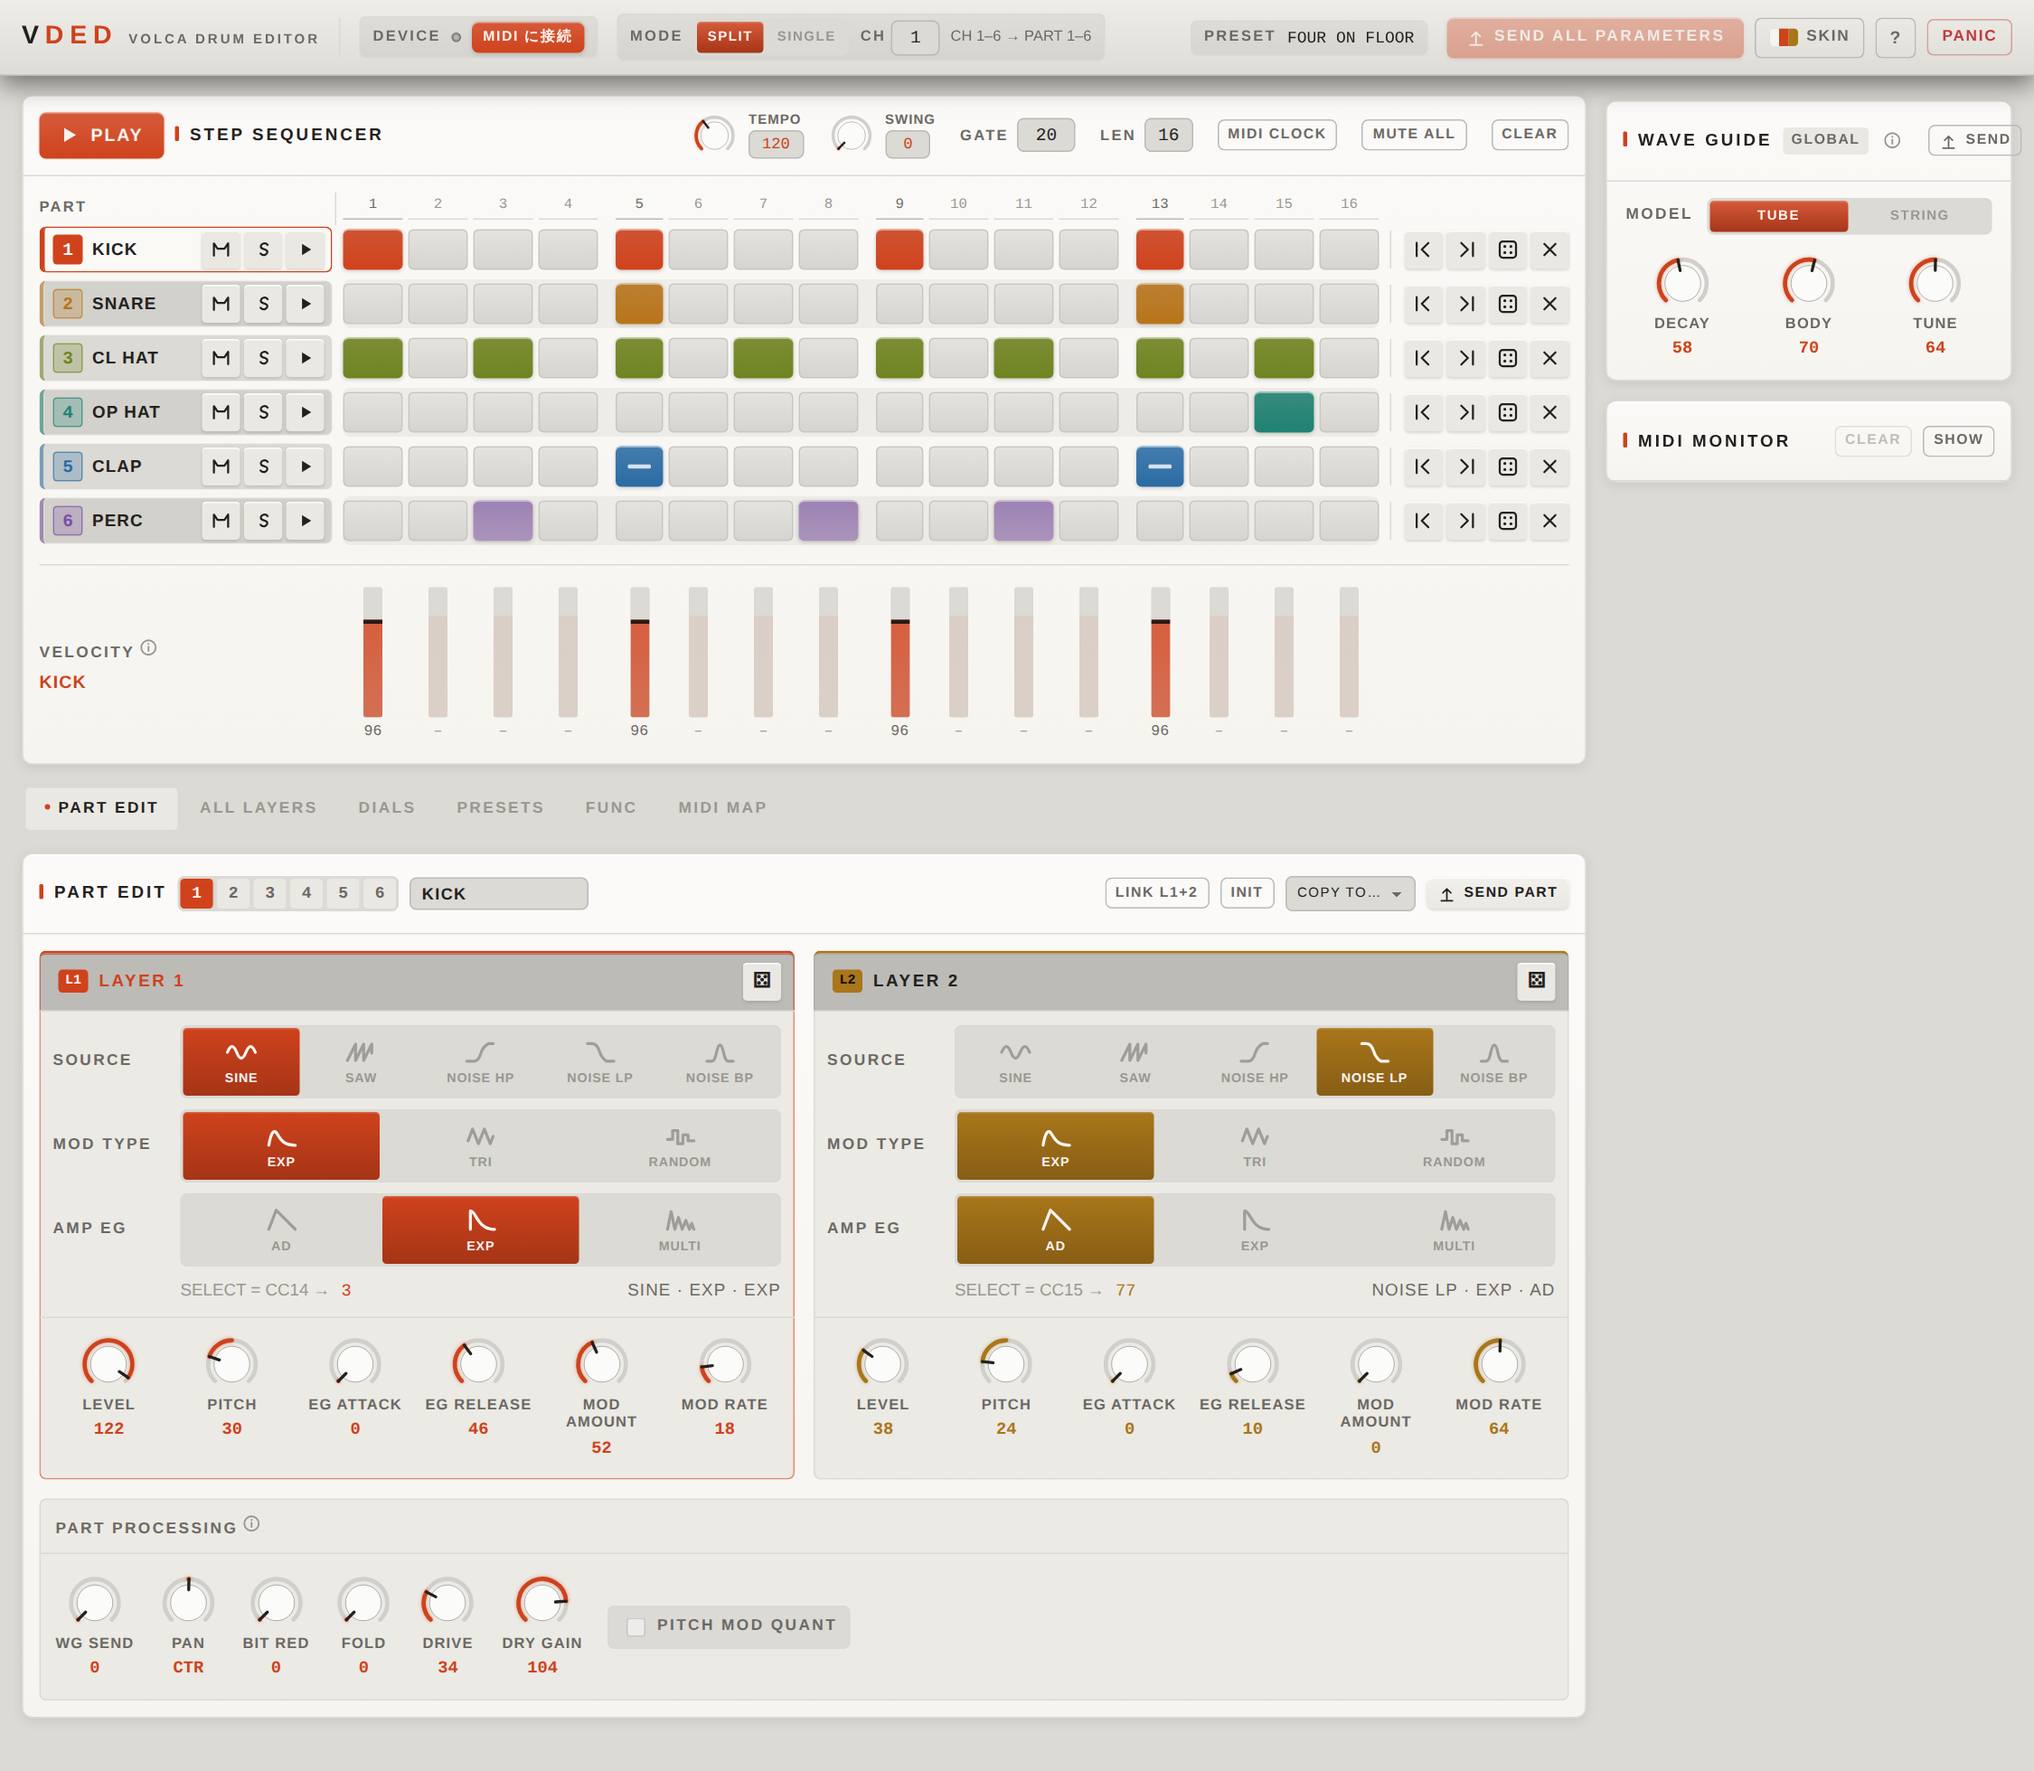
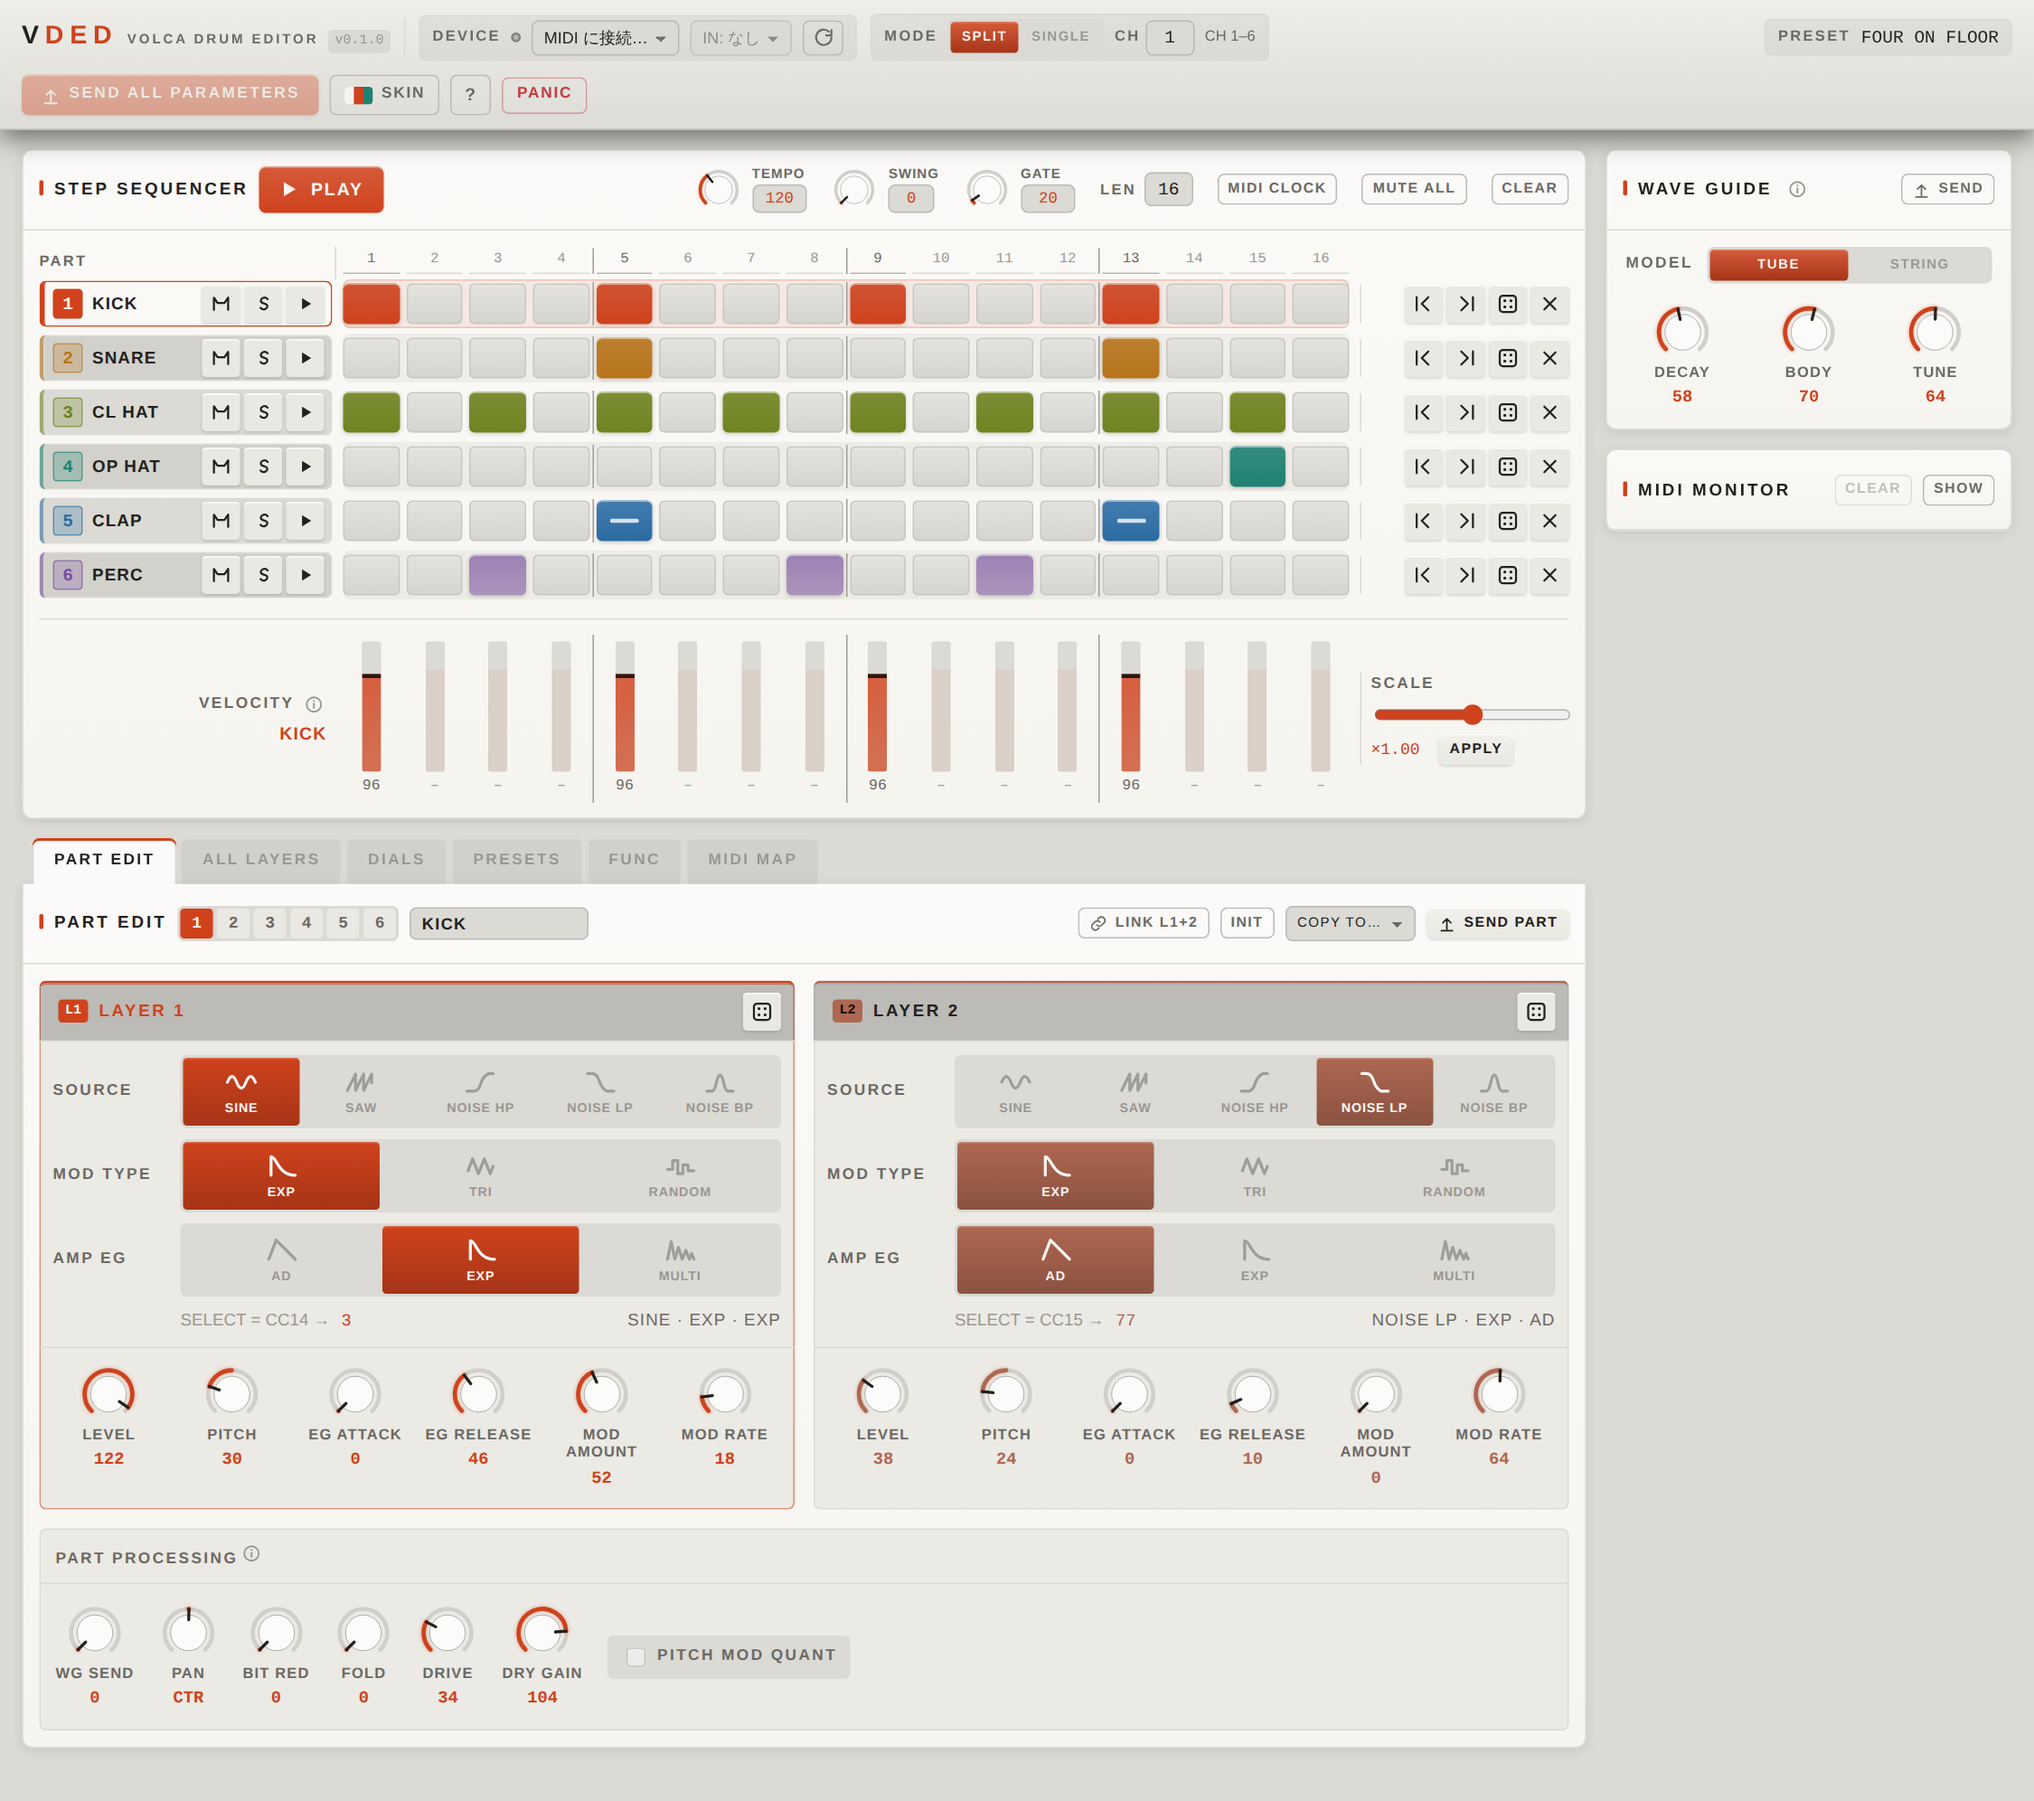
docs: README for the language switch, part-derived layer colours and the velocity scaler
Also fits the top bar on one row: the channel readout drops the redundant
part range into its tooltip.

diff --git a/src/i18n/index.ts b/src/i18n/index.ts
@@ -46,8 +46,8 @@ const EN: Dict = {
   'mode.splitTitle': 'Parts 1–6 on channels 1–6 (recommended, factory default)',
   'mode.singleTitle': 'All parts on one channel. No per-layer control, no BIT/FOLD/DRIVE/DRY GAIN',
   'mode.channelAria': 'Base MIDI channel',
-  'mode.splitHint': 'CH {from}–{to} → PART 1–6',
-  'mode.singleHint': 'CH {ch} → all parts',
+  'mode.splitHint': 'CH {from}–{to}',
+  'mode.singleHint': 'CH {ch}',
 
   'top.preset': 'Preset',
   'top.presetTitle': 'Preset currently being edited',
@@ -336,8 +336,8 @@ const JA: Dict = {
   'mode.splitTitle': 'PART 1–6 を CH 1–6 で個別制御（推奨・工場出荷時）',
   'mode.singleTitle': '全 PART を 1 チャンネルで制御。LAYER 別と BIT/FOLD/DRIVE/DRY GAIN は不可',
   'mode.channelAria': 'ベース MIDI チャンネル',
-  'mode.splitHint': 'CH {from}–{to} → PART 1–6',
-  'mode.singleHint': 'CH {ch} → 全 PART 共通',
+  'mode.splitHint': 'CH {from}–{to}',
+  'mode.singleHint': 'CH {ch}',
 
   'top.preset': 'Preset',
   'top.presetTitle': '編集中の PRESET 名',

diff --git a/src/components/DeviceBar.tsx b/src/components/DeviceBar.tsx
@@ -127,7 +127,12 @@ export function DeviceBar() {
             onChange={(channel) => setSettings({ baseChannel: channel })}
           />
         </label>
-        <span className="hint device__hint">{channelHint}</span>
+        <span
+          className="hint device__hint"
+          title={mode === 'split' ? t('mode.splitTitle') : t('mode.singleTitle')}
+        >
+          {channelHint}
+        </span>
       </div>
     </>
   )

diff --git a/src/styles/layout.css b/src/styles/layout.css
@@ -20,7 +20,7 @@
   z-index: 30;
   display: flex;
   align-items: center;
-  gap: var(--gap-md);
+  gap: 10px;
   flex-wrap: wrap;
   padding: 10px 16px;
   background: linear-gradient(180deg, var(--c-topbar), var(--c-topbar-2));
@@ -31,8 +31,8 @@
 .brand {
   display: flex;
   align-items: baseline;
-  gap: 8px;
-  padding-right: var(--gap-md);
+  gap: 7px;
+  padding-right: 10px;
   border-right: 1px solid var(--c-line-soft);
 }
 
